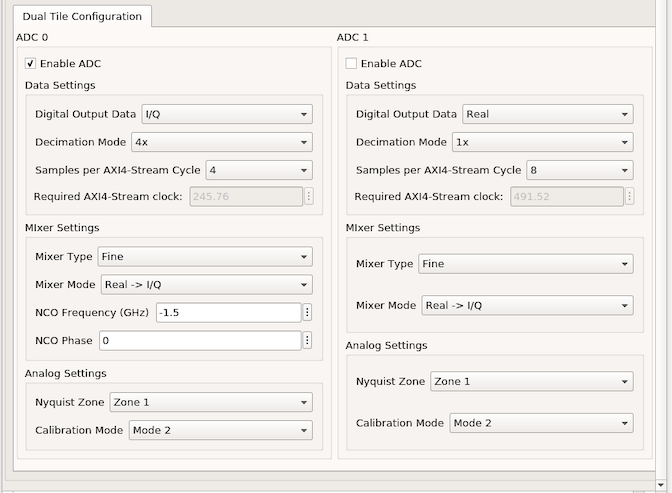
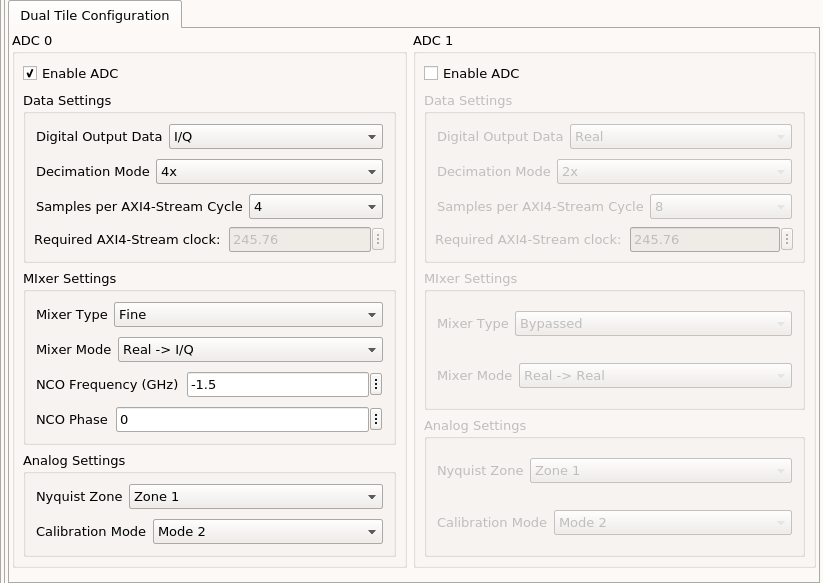
Fix screenshots and typos in RFSoC tutorial 2

Changed region(s): [[0.0, 0.0, 1.0, 1.0], [0.5312, 0.7606, 0.9375, 0.9128], [0.5, 0.4564, 0.625, 0.4868]]

diff --git a/docs/tutorials/rfsoc/tut_rfdc.rst b/docs/tutorials/rfsoc/tut_rfdc.rst
@@ -23,7 +23,7 @@ settings that are as common as possible, use a various number of the RFDC
 features, yet still be able to point out a some of the differences between the
 quad- and dual- tile architectures of the RFSoC. Where platform specific
 settings are required beyond what is needed as a quad- or dual-tile RFSoC those
-differences will be identifed.
+differences will be identified.
 
 This design will:
   * Set sample rates appropriate for the different architectures
@@ -86,7 +86,7 @@ Add an ``rfdc`` yellow block, found in ``CASPER XPS Blockset->ADCs->rfdc``.
 
 The ``rfdc`` yellow block automatically understands the target RFSoC part and
 derives the corresponding tile architecture, subsequently rendering the correct
-configuration view. For both architecutres the first half of the configuration view is
+configuration view. For both architectures the first half of the configuration view is
 identical. This is the portion of the configuration that sets the enabled tiles,
 sample rate, use of internal PLLs, inclusion of multi-tile synchronization
 infrastructure, and displays tile clocking information.
@@ -109,7 +109,7 @@ checkbox will enable the internal PLL for all selected tiles. When this option
 is enabled the ``Reference Clock`` drop down provides a list of frequencies
 that can be used to drive the PLLs to generate the sample clock for the ADCs. If
 ``Enable Tile PLLs`` is not checked, this will display the same value as the
-``Sampling Rate`` field indicating the part is expecting an extenral sample clock
+``Sampling Rate`` field indicating the part is expecting an external sample clock
 to drive the ADCs.
 
 A few behaviors to keep in mind:
@@ -126,13 +126,15 @@ A few behaviors to keep in mind:
     platform blocks can be extended to target this clock.
 
   * Gen 3 RFSoCs introduce the ability of "clock forwarding" `PG269 Ch.4,
-    Clocking`_ between tiles. The underlying implentation of the ``rfdc``
+    Clocking`_ between tiles. The underlying implementation of the ``rfdc``
     yellow block is aware of the capability as it is required to do
     DRC checks to validate the design. The framework therefore exists and needs to
     be built out. However, the ability to readily control this from the
     configuration view is not available yet. Instead, the platform configuration
     ``.yaml`` file currently keys off the ``rfdc`` for what to expect regarding how a
     tile will resolve receiving its sample clock.
+
+  * The DACs should be disabled for this tutorial
 
 The next configuration section in the GUI configures the operation behavior of
 the ADCs within a tile. For a quad-tile platform configure this section as:
@@ -146,7 +148,7 @@ For a dual-tile platform configure this section as:
 Currently, the selected configuration will be replicated across all enabled
 tiles. Meaning, that for right now, different ADCs within a tile can be
 configured differently to the extent that they meet the same required AXI4
-stream clock requirment, but that same behavior will be applied to all tiles
+stream clock requirement, but that same behavior will be applied to all tiles
 equally.
 
 The ``Enable ADC`` checkbox enables the corresponding ADC. Under "Data Settings",
@@ -160,7 +162,7 @@ Oscillator`_.
 
 The ``Decimation Mode`` drop down displays the available decimation rates that can
 be applied for the generation platform targeted. ``Sample per AXI4-Stream Cycle``
-indicate how many ``16-bit`` ADC words are output per clock cycle. The ``Required
+indicates how many ``16-bit`` ADC words are output per clock cycle. The ``Required
 AXI4-Stream clock`` field here displays the effective User IP clock that would be
 required for the configuration of the decimator and number of samples per clock.
 These fields are to match for all ADCs within a tile.
@@ -220,7 +222,7 @@ sample is at the MSB of the word. With the snapshot block configured to capture
 
 For dual-tile platforms in ``I/Q`` digital output modes, the inphase and
 quadarature data are produced from different ports. In this mode the first digit
-of the signal name corresponds ot the tile index just as in the quad-tile. But
+of the signal name corresponds to the tile index just as in the quad-tile. But
 the second digit is ``0`` for inphase and ``1`` for quadrature data. In this example
 then, with ``4`` sample per clock this is ``4`` complex samples with the two complex
 components coming from different ports, ``m00_axis_tdata`` for inphase data ordered
@@ -247,9 +249,9 @@ block (``CASPER DSP Blockset->Misc->edge_detect``).
 .. image:: ../../_static/img/rfsoc/tut_rfdc/edge_block.PNG
 .. image:: ../../_static/img/rfsoc/tut_rfdc/edge_config.PNG
 
-Set the ``I/O`` direction of the software register to ``From Software``, change the
+Set the ``I/O`` direction of the software register to ``From Processor``, change the
 ``Bitfield names`` to ``[start]``, set ``Bitfield widths`` to ``1`` and ``Bitfield types``
-to ``2``. Connect this blocks output to the input of the edge detect block. Rename
+to ``2``. Connect this block's output to the input of the edge detect block. Rename
 the register to ``snapshot_ctrl``. This is the name for the register that is
 visible in software. Remember this name for later should you name it differently.
 Connect the output of the edge detect block to the trigger port on the snapshot
@@ -268,7 +270,7 @@ And this for dual-tile platforms:
 .. image:: ../../_static/img/rfsoc/tut_rfdc/rfdc-dt-final.png
 
 You can connect some simulink constant blocks to get rid of simulink unconnected
-port warnings, or leave them if they do not bother your. Validate the design by
+port warnings, or leave them if they do not bother you. Validate the design by
 running the simulation. In this case, there's nothing to see in the simulation,
 but can press ``ctrl+d`` to only update and validate the diagrams connections and
 that port widths and data types are consistent. Make sure to save!
@@ -284,21 +286,21 @@ machine hardware synthesis could take from 15-30 minutes.
 
 As briefly explained in the `first tutorial <./tut_platform.html#compiling>`_ the
 toolflow will run one extra step that previous users may now notice. After
-Vivado syntheis and bitstream generation the toolflow exports the platform
+Vivado synthesis and bitstream generation the toolflow exports the platform
 hardware definition to use Xilinx's software tools (the Vitis flow) to
-generate software produts to interface with the hardware design.
+generate software products to interface with the hardware design.
 
 In this step the software platform hardware definition is read parsing the
 design for IP with an associated software driver. This is done in two steps, the
 hardware platform is ran first against Xilinx software tools and then a second
-pass is taken augmenting those output products as neccessary with any CASPER
-specificy additions. The result is any software drivers that interact with user
+pass is taken augmenting those output products as necessary with any CASPER
+specific additions. The result is any software drivers that interact with user
 IP. In the case of the previous tutorial there was no IP with a corresponding
 driver (other than the underlying Zynq processor). However, here we are using
 the ``rfdc`` that has a fully configurable software component that we want to
 communicate with in software. The resulting output at this step is the ``.dtbo``
 or ``device tree binary overlay`` which is a binary representation of the device
-tree containing information for software dirvers that is is applied at runtime
+tree containing information for software drivers that is applied at runtime
 in software after the new bitstream is programmed.
 
 Note: For the ``RFDC`` ``casperfpga`` object and corresponding software driver to
@@ -339,15 +341,15 @@ manipulate and interact with the software driver components of the RFDC.
   Out[4]: ['rfdc']
 
 We can create a reference to that `RFDC` object and begin to exercise some of
-the software components included with the that object.
+the software components included with that object.
 
 .. code:: python
 
   In [5]: rfdc_zcu216 = zcu216.adcs['rfdc']
 
 We first initialize the driver; a doc string is provided for all functions and
-so we can always use IPythons help `?` mechanism to get more information of a
-methods signature and a brief description of its functionality.
+so we can always use IPython's help `?` mechanism to get more information of a
+method's signature and a brief description of its functionality.
 
 .. code:: python
 
@@ -389,7 +391,7 @@ We can query the status of the rfdc using ``status()``
   ADC3: Enabled 1, State: 6 PLL: 0
   Out[8]: True
 
-the ``status()`` method displys the enabled ADCs, current "power-up sequence"
+the ``status()`` method displays the enabled ADCs, current "power-up sequence"
 state information of the tile and the state of the tile PLL (locked, or not).
 This information can be helpful as a first glance in debugging the RFDC should
 the behavior not match the expected. The mapping of the ``State`` value to its
@@ -515,7 +517,7 @@ reviewed your platforms [page](./readme.md#platforms) for any required setup):
   Out[28]: True
 
 With the clocks programmed we can now check the status of the ``rfdc`` and it
-should now report that the tiles have locked their internall PLLs and have
+should now report that the tiles have locked their internal PLLs and have
 completed the power-on sequence by displaying a state value of ``15``.
 
 .. code:: python
